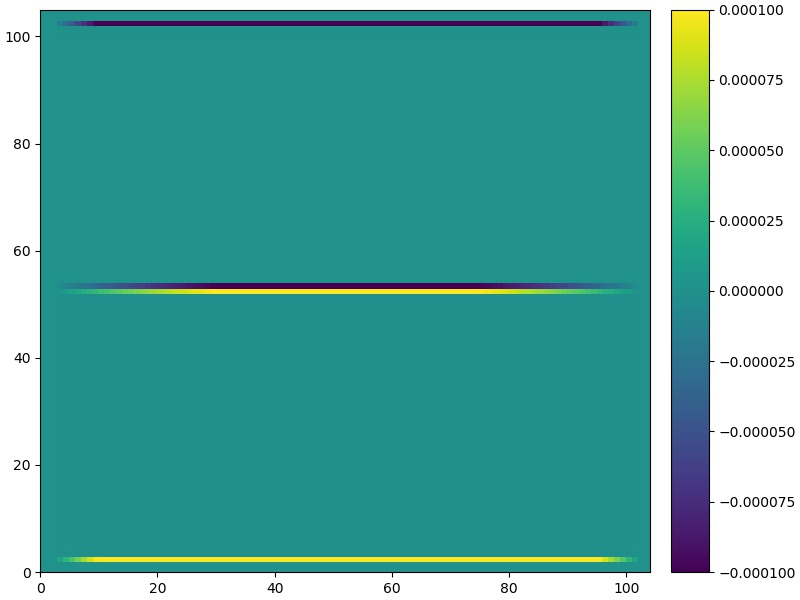
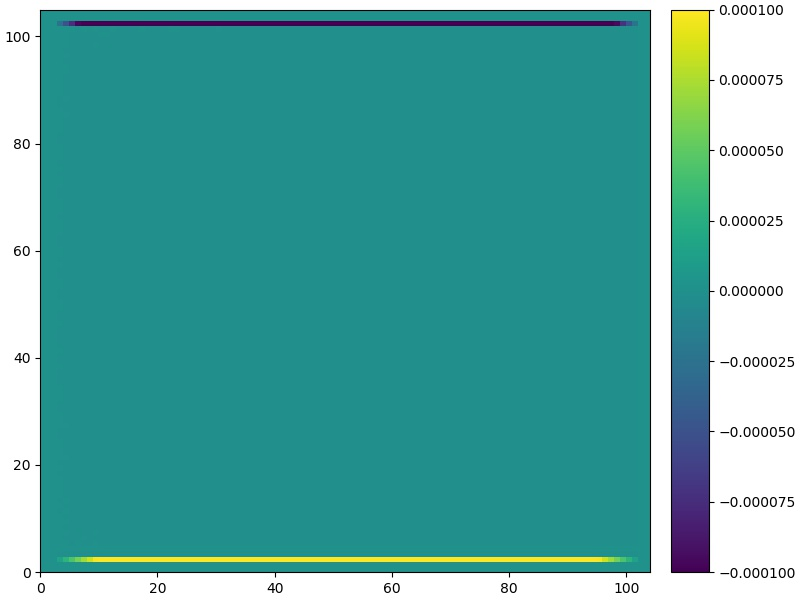
Another test for gradients

Changed region(s): [[0.0938, 0.45, 0.7812, 0.51], [0.0625, 0.03, 0.125, 0.06], [0.75, 0.03, 0.7812, 0.06]]

diff --git a/custom_apps/tf_cuda_gradients.py b/custom_apps/tf_cuda_gradients.py
@@ -111,7 +111,8 @@ class CUDAFlow(App):
             next = []
             for x in range(0, RESOLUTION[0] + 1):
                 dim = RESOLUTION[0]
-                next.append([0.1 * math.sin((2.0 / dim) * PI * y), 0.1 * math.sin((2.0 / dim) * PI * x)])
+                #next.append([0.1 * math.sin((2.0 / dim) * PI * y), 0.1 * math.sin((2.0 / dim) * PI * x)])
+                next.append([0.1 * math.sin((1.0 / dim) * PI * y), 0.1 * math.sin((1.0 / dim) * PI * x)])
 
             data.append(next)
         velocity_grid = np.array([data], dtype="float32")
